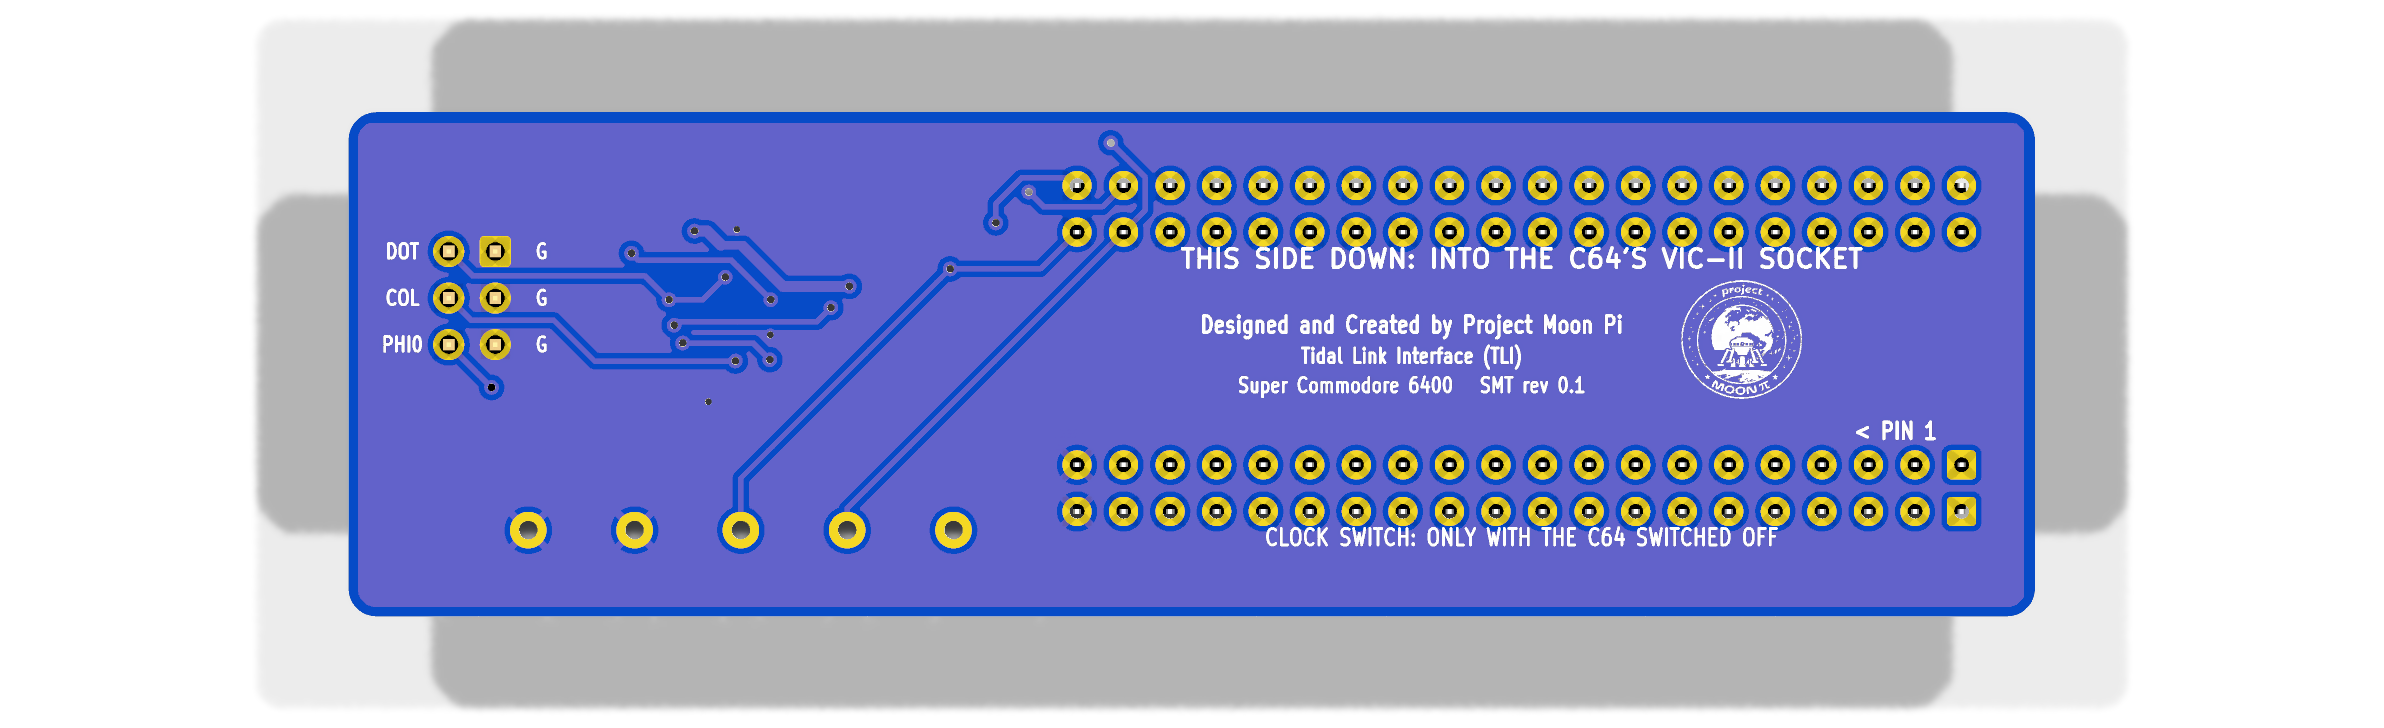
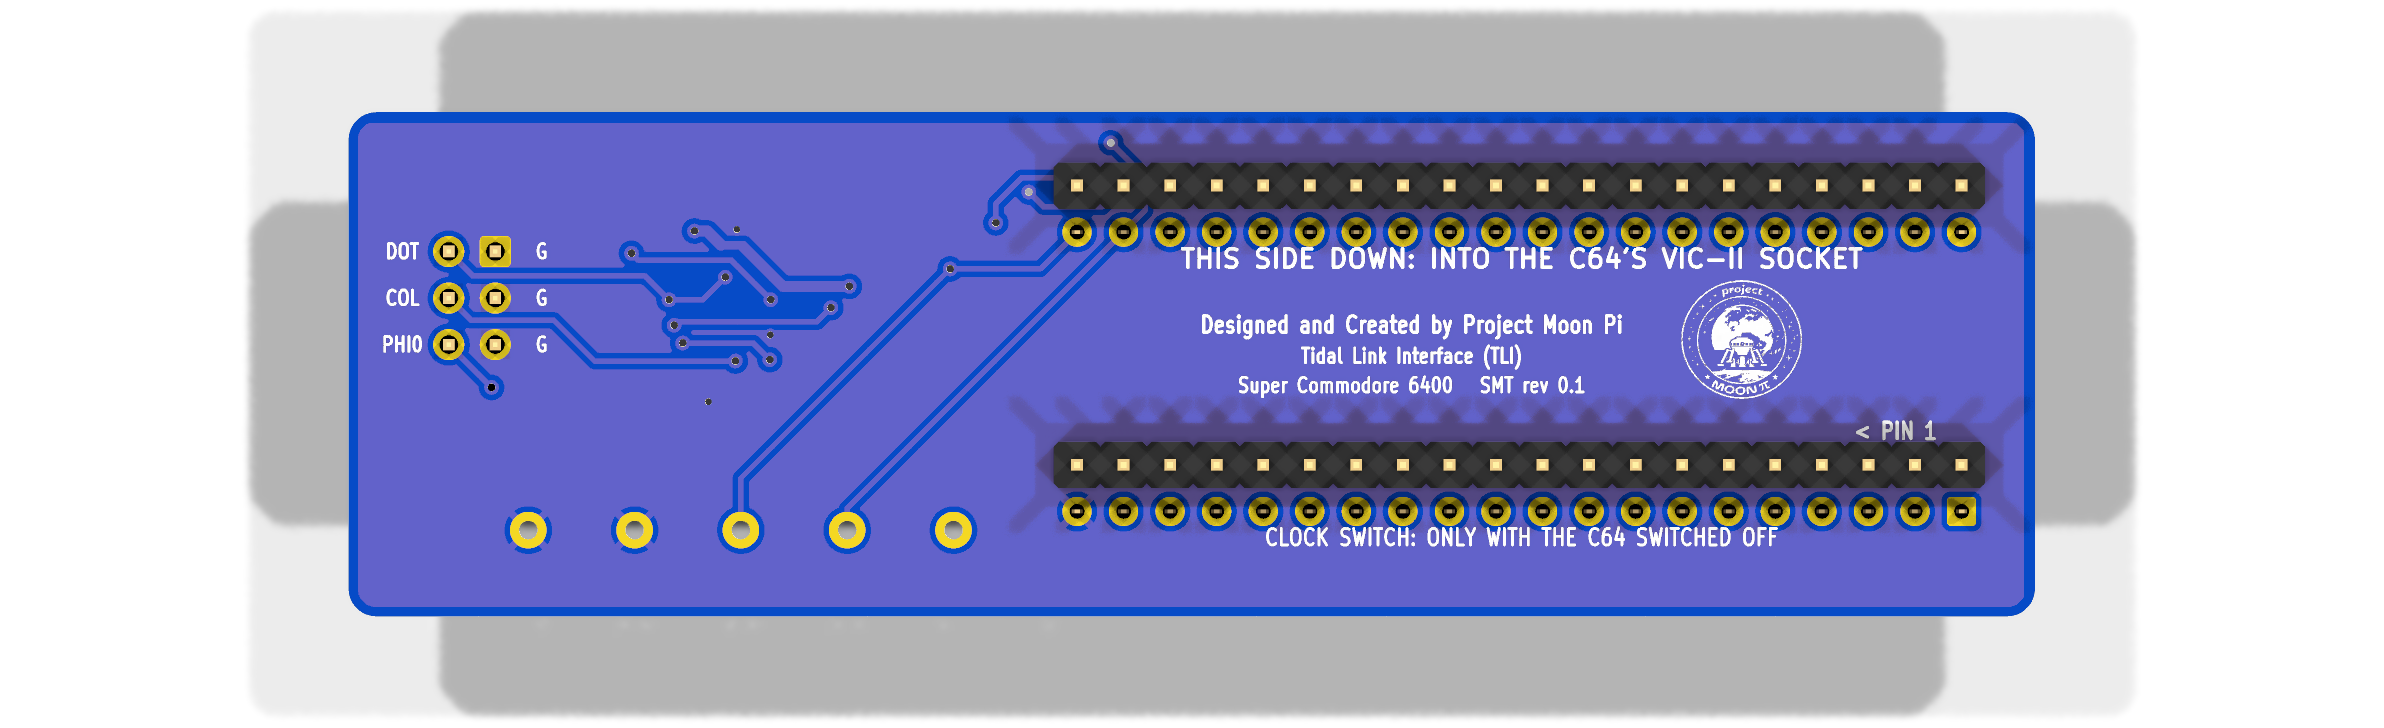
Renders: every board blue; TLI renders show plug + socket strips (no VIC), SMT switch model
common/tli_models.py replaces the DIP-40 chip models with 2 down-facing pin strips (plug)
and 2 socket strips (VIC socket); common/3d/SW_DPDT_CK_JS202011JCQN.wrl (KiCad has none).
THT boards' stack-ups now blue too (standing rule: all PCB renders blue). Angled
'-pins' renders show the TLI plug.

diff --git a/hardware/boards/common/tli_models.py b/hardware/boards/common/tli_models.py
@@ -1,0 +1,47 @@
+"""3D models for the Tidal Link Interface renders (both editions), so a render shows the board as built, without the
+VIC: J1 (the plug into the C64's VIC socket) = two 20-pin strips pointing DOWN from the back; J2 (the socket for the
+VIC) = two 20-way socket strips on top. KiCad's DIP-40 footprints would draw a whole DIP chip instead. On the SMT
+edition SW1 gets our own JS202011JCQN model (KiCad's library has none).
+    <KiCad python> tli_models.py board.kicad_pcb        (gen_pcb.py calls apply() too)"""
+import sys
+
+import pcbnew
+
+LIB = "${KICAD10_3DMODEL_DIR}/"
+HEADER = LIB + "Connector_PinHeader_2.54mm.3dshapes/PinHeader_1x20_P2.54mm_Vertical.step"
+SOCKET = LIB + "Connector_PinSocket_2.54mm.3dshapes/PinSocket_1x20_P2.54mm_Vertical.step"
+SWITCH = "${KIPRJMOD}/../../../common/3d/SW_DPDT_CK_JS202011JCQN.wrl"   # (from generator/out/ to boards/common/)
+BOARD_T = 1.6
+
+
+def model(path, x=0.0, y=0.0, z=0.0, rot=(0.0, 0.0, 0.0)):
+    m = pcbnew.FP_3DMODEL()
+    m.m_Filename = path
+    m.m_Offset = pcbnew.VECTOR3D(x, y, z)
+    m.m_Rotation = pcbnew.VECTOR3D(*rot)
+    m.m_Scale = pcbnew.VECTOR3D(1, 1, 1)
+    m.m_Show = True
+    return m
+
+
+def apply(board):
+    for ref, models in (
+            # the DIP footprints' own frame: pin 1 at the origin, pins 1-20 down one column, 21-40 up the other at
+            # x 15.24. The plug's strips turned over (180 about y keeps the column order) and hung under the board.
+            ("J1", [model(HEADER, 0, 0, -BOARD_T, (0, 180, 0)), model(HEADER, 15.24, 0, -BOARD_T, (0, 180, 0))]),
+            ("J2", [model(SOCKET, 0, 0, 0), model(SOCKET, 15.24, 0, 0)])):
+        fp = board.FindFootprintByReference(ref)
+        fp.Models().clear()
+        for m in models:
+            fp.Add3DModel(m)
+    sw = board.FindFootprintByReference("SW1")
+    if sw and "JS202011JCQN" in sw.GetFPIDAsString():
+        sw.Models().clear()
+        sw.Add3DModel(model(SWITCH))
+
+
+if __name__ == "__main__":
+    b = pcbnew.LoadBoard(sys.argv[1])
+    apply(b)
+    pcbnew.SaveBoard(sys.argv[1], b)
+    print("3D models set:", sys.argv[1])

diff --git a/hardware/boards/common/make_switch_wrl.py b/hardware/boards/common/make_switch_wrl.py
@@ -1,0 +1,27 @@
+"""A simple 3D model of the C&K JS202011JCQN (SMT DPDT slide switch) for renders: KiCad's library has the footprint
+but no model. Metal-covered body 8.6 x 4.4 x 3.5 mm, slider 1.5 x 1.5 x 2.0 mm on top (at the INT end), six J-bend
+legs down to the pads (x -2.5 / 0 / +2.5, y +-1.2 per the footprint). VRML units: 1 = 0.1 inch (KiCad's convention).
+    python3 make_switch_wrl.py  ->  3d/SW_DPDT_CK_JS202011JCQN.wrl"""
+import os
+
+U = 1 / 2.54                                   # mm -> VRML units
+
+
+def box(cx, cy, cz, sx, sy, sz, rgb, shine=0.3):
+    return (f"Transform {{ translation {cx*U:.4f} {cy*U:.4f} {cz*U:.4f} children [ Shape {{ appearance Appearance {{ "
+            f"material Material {{ diffuseColor {rgb} specularColor 0.5 0.5 0.5 shininess {shine} }} }} "
+            f"geometry Box {{ size {sx*U:.4f} {sy*U:.4f} {sz*U:.4f} }} }} ] }}\n")
+
+
+METAL, BLACK, TIN = "0.72 0.73 0.75", "0.08 0.08 0.08", "0.82 0.82 0.84"
+out = ["#VRML V2.0 utf8\n"]
+H = 3.5
+out.append(box(0, 0, 0.15 + H / 2, 8.6, 4.4, H, METAL, 0.6))          # the body, sitting 0.15 mm above the board
+out.append(box(0, 0, 0.15 + H - 0.05, 5.2, 1.6, 0.12, BLACK))           # the slot in the cover
+out.append(box(-1.0, 0, 0.15 + H + 1.0, 1.5, 1.5, 2.0, BLACK))         # the slider (INT end, the pin-1 side)
+for x in (-2.5, 0.0, 2.5):                                             # J-bend legs onto the pads
+    for y in (-1.2, 1.2):
+        out.append(box(x, y, 0.1, 0.5, 1.0, 0.2, TIN))                 # (model y is up the page: pads at +-1.2)
+os.makedirs(os.path.join(os.path.dirname(os.path.abspath(__file__)), "3d"), exist_ok=True)
+open(os.path.join(os.path.dirname(os.path.abspath(__file__)), "3d", "SW_DPDT_CK_JS202011JCQN.wrl"), "w").writelines(out)
+print("3d/SW_DPDT_CK_JS202011JCQN.wrl written")

diff --git a/hardware/boards/tidal-link-tht/generator/gen_pcb.py b/hardware/boards/tidal-link-tht/generator/gen_pcb.py
@@ -179,10 +179,13 @@ for x0, y0, x1, y1 in ((0, 0, W, 0.5), (0, H - 0.5, W, H), (0, 0, 0.5, H), (W - 
 import silk                                            # noqa: E402
 silk.fixed(board)
 
+sys.path.insert(0, os.path.join(HERE, "..", "..", "common"))
+import tli_models                                      # noqa: E402  (plug + socket strips, no VIC)
+tli_models.apply(board)
 pcbnew.SaveBoard(OUT, board)
 sys.path.insert(0, os.path.join(HERE, "..", "..", "common"))
-import stackup                                         # noqa: E402  (green mask = the through-hole edition)
-stackup.apply(OUT, "Green")
+import stackup                                         # noqa: E402  (blue: every Project Moon Pi board renders blue)
+stackup.apply(OUT, "Blue")
 _pro = os.path.splitext(OUT)[0] + ".kicad_pro"
 try:
     _cfg = json.load(open(_pro))

diff --git a/hardware/boards/tidal-link/generator/gen_pcb.py b/hardware/boards/tidal-link/generator/gen_pcb.py
@@ -207,9 +207,12 @@ for x0, y0, x1, y1 in ((0, 0, W, 0.5), (0, H - 0.5, W, H), (0, 0, 0.5, H), (W - 
 import silk                                            # noqa: E402
 silk.fixed(board)
 
+sys.path.insert(0, os.path.join(HERE, "..", "..", "common"))
+import tli_models                                      # noqa: E402  (plug + socket strips, no VIC)
+tli_models.apply(board)
 pcbnew.SaveBoard(OUT, board)
 sys.path.insert(0, os.path.join(HERE, "..", "..", "common"))
-import stackup                                         # noqa: E402  (blue mask = the SMT edition)
+import stackup                                         # noqa: E402  (blue: every Project Moon Pi board renders blue)
 stackup.apply(OUT, "Blue")
 _pro = os.path.splitext(OUT)[0] + ".kicad_pro"
 try:

diff --git a/hardware/boards/common/stackup.py b/hardware/boards/common/stackup.py
@@ -1,7 +1,7 @@
 """Write the board's layer stack-up, solder mask colour included, into a .kicad_pcb (replacing any already there).
-The mask colour is what the renders show and what the shop is asked for: blue = the SMT editions, green = the
-through-hole editions, so the two can never be mixed up on the bench.
-    python3 stackup.py board.kicad_pcb Blue|Green
+The mask colour is what the renders show: every Project Moon Pi board renders BLUE (the user's standing rule,
+2026-11-18). The silkscreen says which edition a board is (SMT / THT).
+    python3 stackup.py board.kicad_pcb Blue
 Plain Python (no KiCad needed): it edits the file's text."""
 import re
 import sys

diff --git a/hardware/boards/tidal-clock-tht/generator/gen_pcb.py b/hardware/boards/tidal-clock-tht/generator/gen_pcb.py
@@ -205,8 +205,8 @@ silk.fixed(board)
 
 pcbnew.SaveBoard(OUT, board)
 sys.path.insert(0, os.path.join(HERE, "..", "..", "common"))
-import stackup                                         # noqa: E402  (green mask = the through-hole edition)
-stackup.apply(OUT, "Green")
+import stackup                                         # noqa: E402  (blue: every Project Moon Pi board renders blue)
+stackup.apply(OUT, "Blue")
 _pro = os.path.splitext(OUT)[0] + ".kicad_pro"
 try:
     _cfg = json.load(open(_pro))

diff --git a/hardware/boards/tidal-clock/generator/gen_pcb.py b/hardware/boards/tidal-clock/generator/gen_pcb.py
@@ -356,7 +356,7 @@ for dx in (-0.6, 0.6):
 print(f"fan-out: {fanned} pads given a via to their plane" + (f", no room at {' '.join(missed)}" if missed else ""))
 
 pcbnew.SaveBoard(OUT, board)
-import stackup                                         # noqa: E402  (common/: blue mask = the SMT edition)
+import stackup                                         # noqa: E402  (blue: every Project Moon Pi board renders blue)
 stackup.apply(OUT, "Blue")
 _pro = os.path.splitext(OUT)[0] + ".kicad_pro"
 try:
